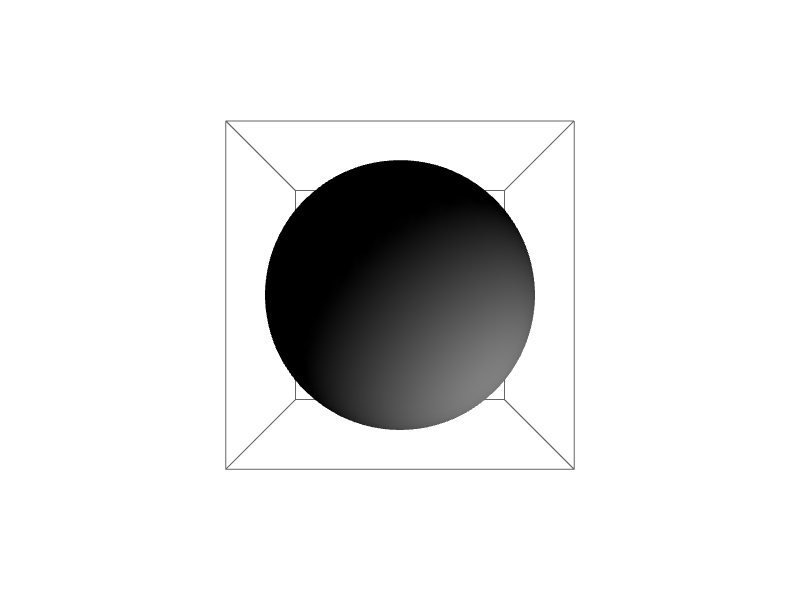
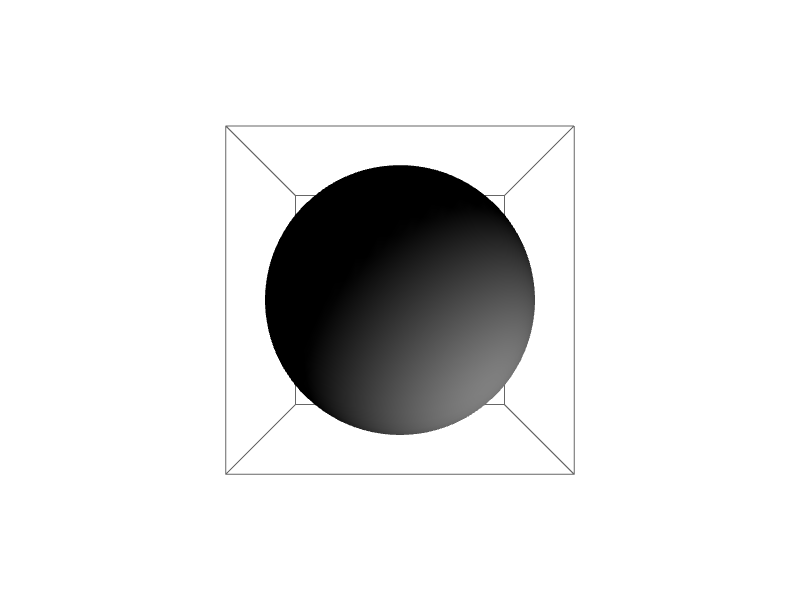
Replace canvasSize + innerWidthMultiplier by CSS alternative
Add conversion to the translate layer.
Update reference images due to small deltas.
Update CHANGES.md.

diff --git a/src/graphics3d.js b/src/graphics3d.js
@@ -24,9 +24,7 @@ export default function (
 		elements = [],
 		lighting = [],
 		viewpoint = [1.3, -2.4, 2]
-	},
-	maxSize = 400,
-	innerWidthMultiplier = 0.65
+	}
 ) {
 	axes.hasaxes ??= false;
 	extent ??= calculateExtent(elements);
@@ -41,15 +39,24 @@ export default function (
 		onMouseDownTheta,
 		phi,
 		onMouseDownPhi,
-		onTouchStartFingersDistance,
-		canvasSize = Math.min(maxSize, window.innerWidth * innerWidthMultiplier);
+		onTouchStartFingersDistance;
 
 	const onMouseDownPosition = new Int16Array(2);
 
-	container.style.width = canvasSize + 'px';
-	// to avoid overflow when a tick numbers is out of the parent element
-	container.style.height = canvasSize + 10 + 'px';
-
+	container.style.display ||= 'block';
+	container.style.width ||= '65vw';
+	container.style.maxWidth ||= '400px';
+	container.style.height ||= '65vw';
+	container.style.maxHeight ||= '400px';
+	// Avoid overflow when a tick numbers is out of the parent element.
+	container.style.paddingTop ||= '5px';
+	container.style.paddingBottom ||= '5px';
+	// Currently the axes labels are drawn using HTML elements with
+	// `position: absolute` so the graphics container must have
+	// `position: relative` to draw the axes labels.
+	// We don't overwrite it because the user may want to make the container
+	// have an absolute position.
+	container.style.position ||= 'relative';
 	container.style.cursor ||= 'pointer';
 	const defaultCursor = container.style.cursor;
 
@@ -241,7 +248,7 @@ export default function (
 
 	// plot the primitives
 	elements.forEach(
-		(element) => scene.add(primitiveFunctions[element.type](element, uniforms, extent, canvasSize))
+		(element) => scene.add(primitiveFunctions[element.type](element, uniforms, extent, container))
 	);
 
 	const renderer = new WebGLRenderer({
@@ -249,8 +256,13 @@ export default function (
 		alpha: true
 	});
 
-	renderer.setSize(canvasSize, canvasSize);
+	renderer.setSize(
+		parseInt(getComputedStyle(container).width),
+		parseInt(getComputedStyle(container).height)
+	);
 	renderer.setPixelRatio(window.devicePixelRatio);
+	renderer.domElement.style.width = '100%';
+	renderer.domElement.style.height = '100%';
 	container.appendChild(renderer.domElement);
 
 	function render() {
@@ -316,7 +328,7 @@ export default function (
 		const clientX = touch ? event.touches[0].clientX : event.clientX;
 		const clientY = touch ? event.touches[0].clientY : event.clientY;
 
-		positionTickNumbers(hasAxes, tickNumbers, ticks, camera, canvasSize, maxSize);
+		positionTickNumbers(hasAxes, tickNumbers, ticks, camera, container);
 
 		if (event.shiftKey) { // pan with mouse
 			if (!isShiftDown) {
@@ -338,9 +350,11 @@ export default function (
 				.normalize()
 				.cross(cameraX);
 
-			focus.x = onMouseDownFocus.x + (radius / canvasSize) * (cameraX.x * (onMouseDownPosition[0] - clientX) + cameraY.x * (onMouseDownPosition[1] - clientY));
-			focus.y = onMouseDownFocus.y + (radius / canvasSize) * (cameraX.y * (onMouseDownPosition[0] - clientX) + cameraY.y * (onMouseDownPosition[1] - clientY));
-			focus.z = onMouseDownFocus.z + (radius / canvasSize) * (cameraY.z * (onMouseDownPosition[1] - clientY));
+			const { width } = getComputedStyle(container);
+
+			focus.x = onMouseDownFocus.x + (radius / parseInt(width)) * (cameraX.x * (onMouseDownPosition[0] - clientX) + cameraY.x * (onMouseDownPosition[1] - clientY));
+			focus.y = onMouseDownFocus.y + (radius / parseInt(width)) * (cameraX.y * (onMouseDownPosition[0] - clientX) + cameraY.y * (onMouseDownPosition[1] - clientY));
+			focus.z = onMouseDownFocus.z + (radius / parseInt(width)) * (cameraY.z * (onMouseDownPosition[1] - clientY));
 
 			updateCameraPosition();
 		} else if (event.ctrlKey || (touch && event.touches.length === 2)) { // zoom
@@ -385,8 +399,11 @@ export default function (
 
 			container.style.cursor = 'grabbing';
 
-			phi = onMouseDownPhi + 2 * Math.PI * (onMouseDownPosition[0] - clientX) / canvasSize;
-			theta = onMouseDownTheta + 2 * Math.PI * (onMouseDownPosition[1] - clientY) / canvasSize;
+			const { width, height } = getComputedStyle(container);
+
+			phi = onMouseDownPhi + 2 * Math.PI * (onMouseDownPosition[0] - event.clientX) / parseInt(width);
+
+			theta = onMouseDownTheta + 2 * Math.PI * (onMouseDownPosition[1] - event.clientY) / parseInt(height);
 
 			// 1e-12 prevents spinnging from getting stuck
 			theta = Math.max(
@@ -412,7 +429,7 @@ export default function (
 
 		if (autoRescale) {
 			scaleInView();
-			positionTickNumbers(hasAxes, tickNumbers, ticks, camera, canvasSize, maxSize);
+			positionTickNumbers(hasAxes, tickNumbers, ticks, camera, container);
 			render();
 		}
 	}
@@ -428,18 +445,15 @@ export default function (
 	container.addEventListener('touchend', onMouseUp);
 
 	window.addEventListener('resize', () => {
-		canvasSize = Math.min(maxSize, window.innerWidth * innerWidthMultiplier);
-		container.style.width = canvasSize + 'px';
-		// to avoid overflow when a tick numbers is out of the parent element
-		container.style.height = canvasSize + 10 + 'px';
+		const { width, height } = getComputedStyle(container);
 
-		renderer.setSize(canvasSize, canvasSize);
+		renderer.setSize(parseInt(width), parseInt(height));
 
-		positionTickNumbers(hasAxes, tickNumbers, ticks, camera, canvasSize, maxSize);
+		positionTickNumbers(hasAxes, tickNumbers, ticks, camera, container);
 	});
 
 	updateCameraPosition();
 	scaleInView();
 	render();
-	positionTickNumbers(hasAxes, tickNumbers, ticks, camera, canvasSize, maxSize);
+	positionTickNumbers(hasAxes, tickNumbers, ticks, camera, container);
 }

diff --git a/src/axes.js b/src/axes.js
@@ -6,7 +6,7 @@ import {
 import { scalePartialCoordinate } from './coordinateUtils.js';
 
 // This changes the value of position.
-function toCanvasCoords(position, camera, canvasSize, maxSize) {
+function getTickInformation(position, camera, container) {
 	position.applyMatrix4(
 		new Matrix4().multiplyMatrices(
 			camera.projectionMatrix,
@@ -14,10 +14,25 @@ function toCanvasCoords(position, camera, canvasSize, maxSize) {
 		)
 	);
 
-	return [
-		(position.x + 1) * 200 * canvasSize / maxSize,
-		(1 - position.y) * 200 * canvasSize / maxSize
+	const { width, height } = getComputedStyle(container);
+
+	const tickPosition = [
+		(position.x + 1) * 0.5
+		// scale by currentWidth
+		* parseInt(width),
+		(1 - position.y) * 0.5
+		// scale by currentHeight
+		* parseInt(height)
 	];
+
+	return {
+		position: tickPosition,
+		insideCanvas:
+			tickPosition[0] < 5
+			|| tickPosition[1] < 5
+			|| tickPosition[0] > width - 5
+			|| tickPosition[1] > height - 5
+	};
 }
 
 // i is 0, 1 or 2.
@@ -33,20 +48,13 @@ function getTickDirection(i, radius) {
 	}
 }
 
-export function positionTickNumbers(
-	hasAxes,
-	tickNumbers,
-	ticks,
-	camera,
-	canvasSize,
-	maxSize
-) {
+export function positionTickNumbers(hasAxes, tickNumbers, ticks, camera, container) {
 	for (let i = 0; i < 3; i++) {
 		if (hasAxes[i]) {
 			for (let j = 0; j < tickNumbers[i].length; j++) {
-				// The code bellow moves the tick numbers so they aren't
-				// over the tick marks.
-				const tickPosition = toCanvasCoords(
+				const tickInformation = getTickInformation(
+					// The code bellow moves the tick numbers so they aren't
+					// over the tick marks.
 					new Vector3(
 						ticks[i].geometry.attributes.position.array[j * 6] * 7 - ticks[i].geometry.attributes.position.array[j * 6 + 3] * 6,
 
@@ -59,15 +67,14 @@ export function positionTickNumbers(
 						ticks[i].geometry.attributes.position.array[j * 6 + 2]
 					),
 					camera,
-					canvasSize,
-					maxSize
+					container
 				);
 
-				if (tickPosition[0] < 5 || tickPosition[0] > 395 || tickPosition[1] < 5 || tickPosition[1] > 395) {
+				if (tickInformation.insideCanvas) {
 					tickNumbers[i][j].style.display = 'none';
 				} else {
-					tickNumbers[i][j].style.left = `${tickPosition[0]}px`;
-					tickNumbers[i][j].style.top = `${tickPosition[1]}px`;
+					tickNumbers[i][j].style.left = `${tickInformation.position[0]}px`;
+					tickNumbers[i][j].style.top = `${tickInformation.position[1]}px`;
 					tickNumbers[i][j].style.display = '';
 				}
 			}

diff --git a/src/primitives/point.js b/src/primitives/point.js
@@ -13,7 +13,7 @@ import { getPopulatedCoordinateBuffer } from '../bufferUtils.js';
 // for the high-level description of what is being rendered.
 // Differently from WL's Point, our points aren't affected by
 // lightning and therefore don't have VertexNormals.
-export default function ({ color = [0, 0, 0], coords, opacity = 1, pointSize }, uniforms, extent, canvasSize) {
+export default function ({ color = [0, 0, 0], coords, opacity = 1, pointSize }, uniforms, extent, container) {
 	return new Points(
 		new BufferGeometry().setAttribute(
 			'position',
@@ -32,7 +32,7 @@ export default function ({ color = [0, 0, 0], coords, opacity = 1, pointSize }, 
 				uniform mat4 modelViewMatrix;
 
 				void main() {
-					gl_PointSize = ${(pointSize * canvasSize).toFixed(4)};
+					gl_PointSize = ${(pointSize * parseInt(getComputedStyle(container).width)).toFixed(4)};
 					gl_Position = projectionMatrix * modelViewMatrix * vec4(position, 1);
 				}
 			`,

diff --git a/src/index.js b/src/index.js
@@ -38,7 +38,12 @@ function translationLayer(container, object, maxSize, innerWidthMultiplier) {
 		light.type = light.type.toLowerCase();
 	});
 
-	return drawGraphics3d(container, object, maxSize, innerWidthMultiplier);
+	container.style.maxWidth = maxSize + 'px';
+	container.style.width = (100 * innerWidthMultiplier) + 'vw';
+	container.style.maxHeight = maxSize + 'px';
+	container.style.width = 100 * innerWidthMultiplier + 'vw';
+
+	return drawGraphics3d(container, object);
 }
 
 window.drawGraphics3d = translationLayer;

diff --git a/CHANGES.md b/CHANGES.md
@@ -8,6 +8,7 @@ Improvements:
 - Update three.js to r138 (#96)
 - Add support to smartphones (#97)
 - Add option to disable `autoRescale` (#100)
+- Replace canvasSize + innerWidthMultiplier by CSS alternative (#73, #101)
 
 Internals:
 - Rename branch master to main
